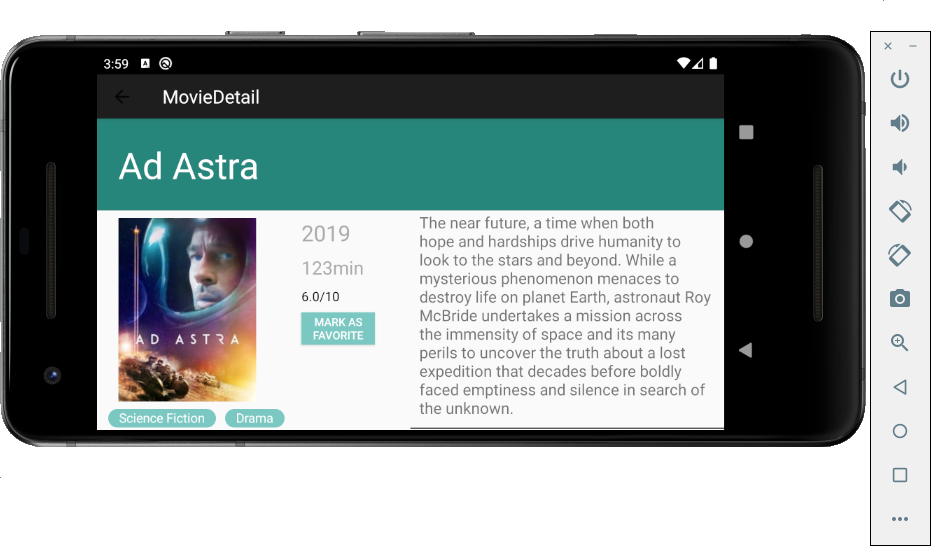
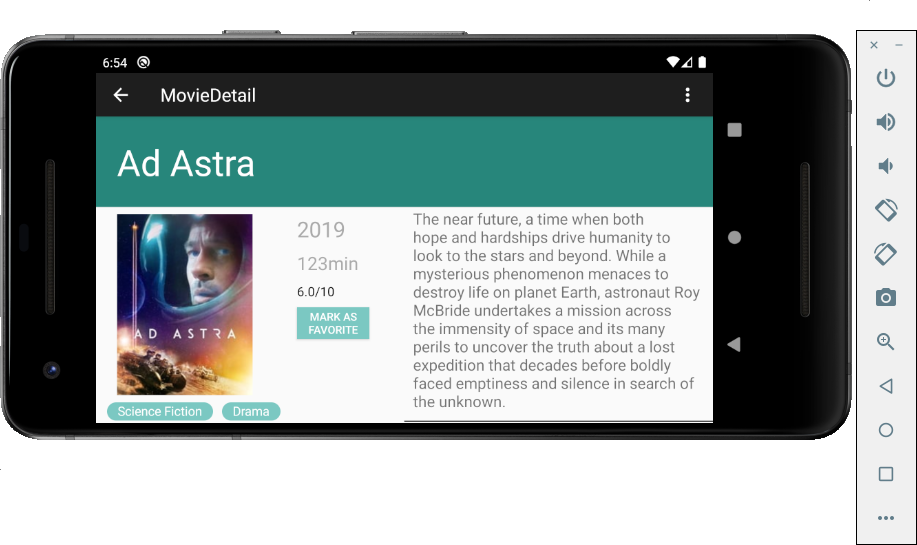
doc: update image screen and readme

diff --git a/README.md b/README.md
@@ -15,6 +15,10 @@ In this project, you’ll build an app to allow users to discover the most popul
   
   ![Details page](images/details_lan_page.png)
 
+- Settings page
+
+  ![Settings page](images/settings_page.png)
+
 ## Getting Started
 
   - Create ***apikey.properties*** file in root of this project
